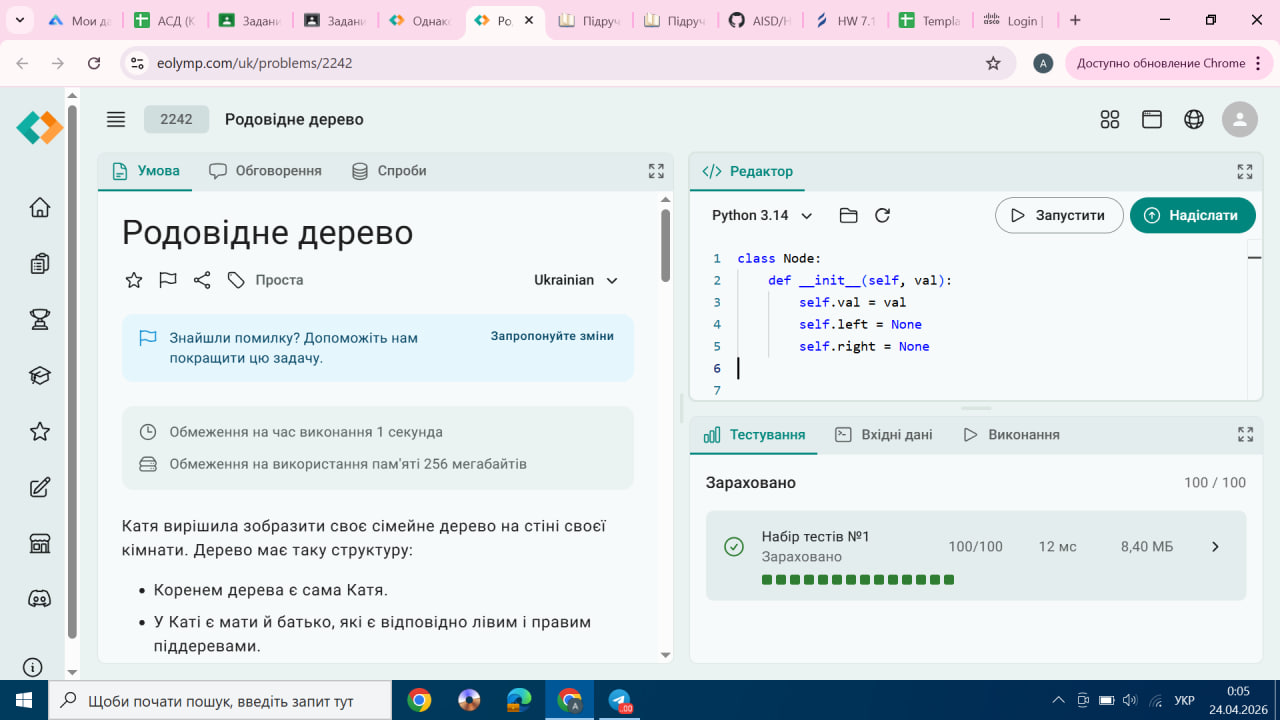
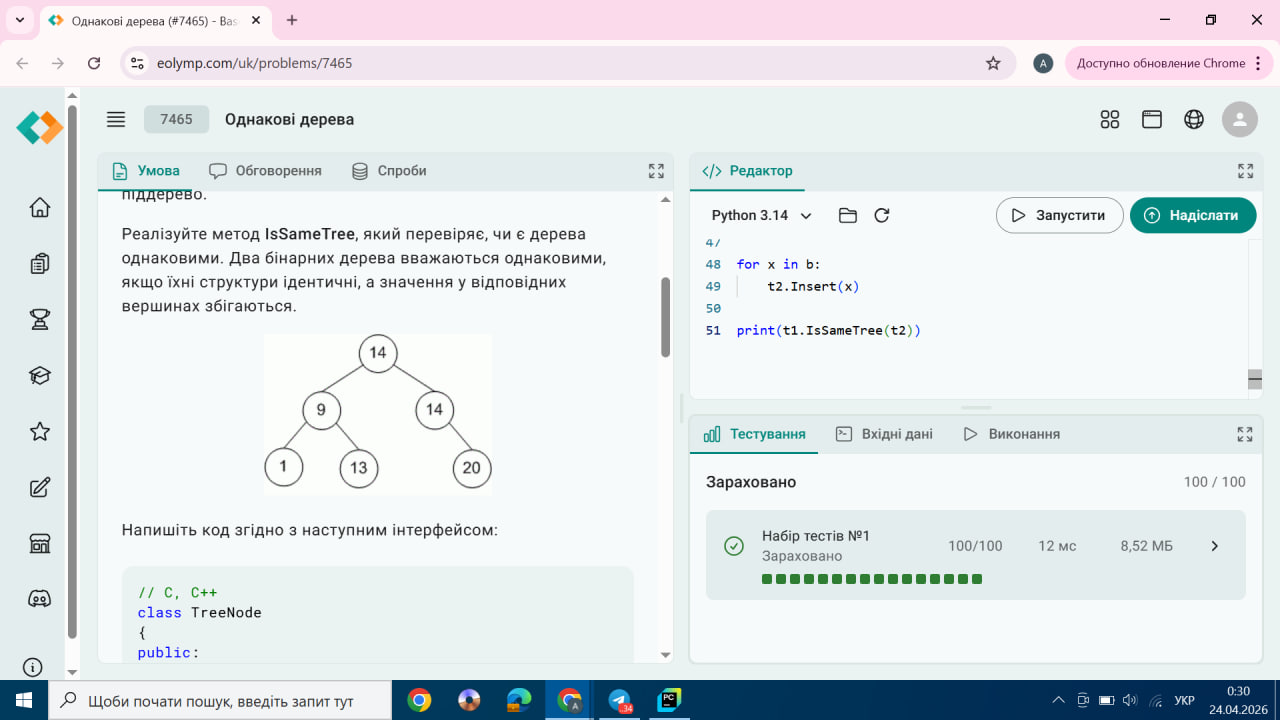
added file

diff --git a/HW17/tem17.7_7465.py b/HW17/tem17.7_7465.py
@@ -1,44 +1,38 @@
 class TreeNode:
-    def __init__(self, x):
-        self.val = x
+    def __init__(self, item):
+        self.item = item
         self.left = None
         self.right = None
-
 
 class Tree:
     def __init__(self):
         self.head = None
 
-    def _insert(self, root, val):
+    def _insert(self, root, item):
         if root is None:
-            return TreeNode(val)
+            return TreeNode(item)
 
-        if val < root.val:
-            root.left = self._insert(root.left, val)
+        if item < root.item:
+            root.left = self._insert(root.left, item)
         else:
-            root.right = self._insert(root.right, val)
+            root.right = self._insert(root.right, item)
 
         return root
 
-    def Insert(self, val):
-        self.head = self._insert(self.head, val)
+    def Insert(self, item):
+        self.head = self._insert(self.head, item)
 
     def _is_same(self, a, b):
         if a is None and b is None:
             return 1
-
         if a is None or b is None:
             return 0
-
-        if a.val != b.val:
+        if a.item != b.item:
             return 0
-
         return self._is_same(a.left, b.left) and self._is_same(a.right, b.right)
 
     def IsSameTree(self, p):
         return self._is_same(self.head, p.head)
-
-
 n = int(input())
 a = list(map(int, input().split()))
 

diff --git a/HW17/tem17.6_2242.py b/HW17/tem17.6_2242.py
@@ -1,28 +1,25 @@
 class Node:
-    def __init__(self, val):
-        self.val = val
+    def __init__(self, item):
+        self.val = item
         self.left = None
         self.right = None
 
-
-def insert(root, val):
+def insert(root, item):
     if root is None:
-        return Node(val)
+        return Node(item)
 
-    if val < root.val:
-        root.left = insert(root.left, val)
+    if item < root.val:
+        root.left = insert(root.left, item)
     else:
-        root.right = insert(root.right, val)
+        root.right = insert(root.right, item)
 
     return root
-
 
 def preorder(root):
     if root is None:
         return ""
 
     return root.val + preorder(root.left) + preorder(root.right)
-
 
 lines = []
 while True:
